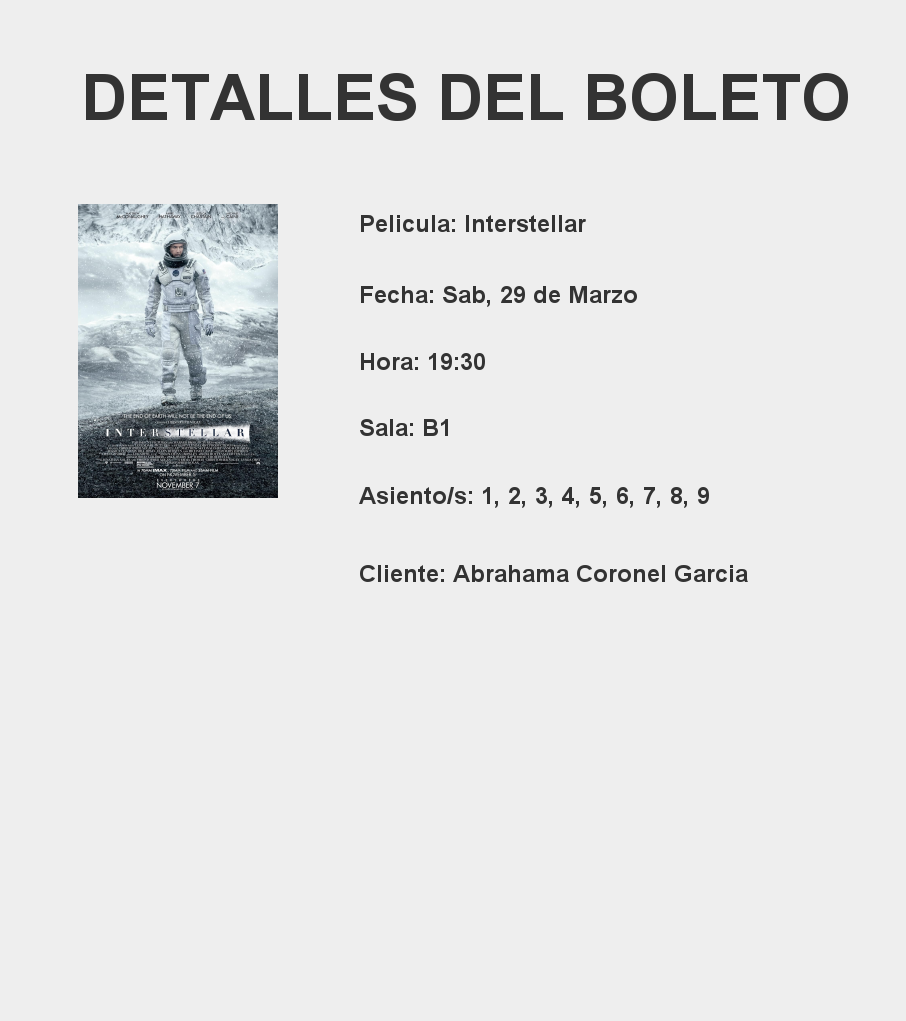
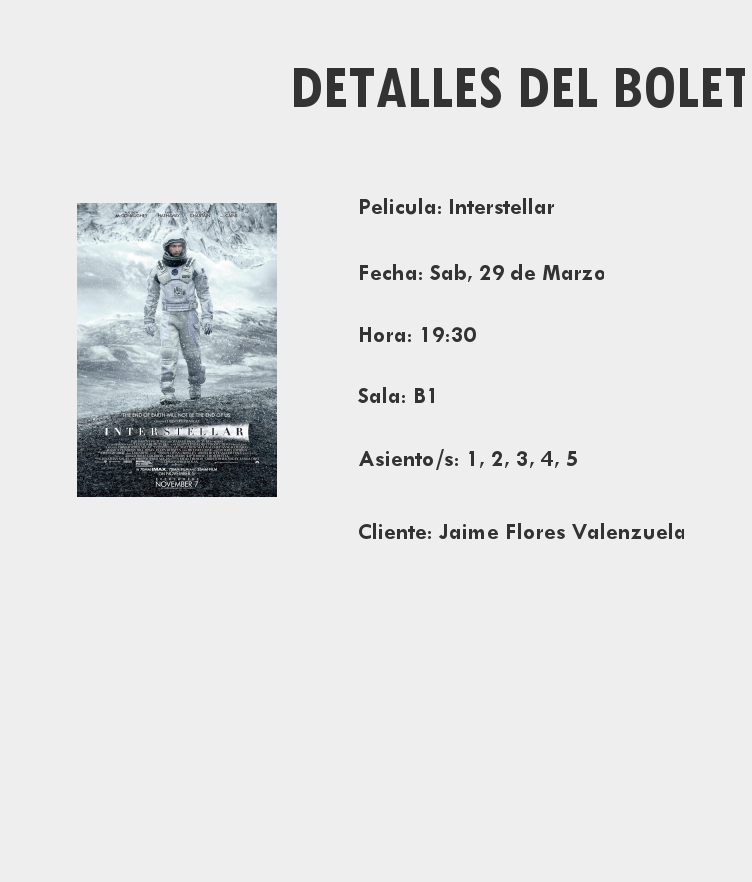
Correcion QR
Se corrigieron los metodos que se encargan de la creacion del qr, sin embargo aun no se puede leer debido a que tiene mucha la imagen tiene demasiados datos

diff --git a/SistemaPresentacionCineLerma/src/main/java/utilitades/Utilerias.java b/SistemaPresentacionCineLerma/src/main/java/utilitades/Utilerias.java
@@ -180,36 +180,21 @@ public class Utilerias {
         }
     }
 
-    public String convertirImagenABase64(String rutaImagen) {
+    public String convertirImagenABase64(String rutaImagen, int nuevoAncho, int nuevoAlto) {
         try {
             BufferedImage imagen = ImageIO.read(new File(rutaImagen));
 
-            // Convertir la imagen a RGB (esto asegura que la imagen sea compatible con JPEG)
-            BufferedImage imagenRGB = new BufferedImage(imagen.getWidth(), imagen.getHeight(), BufferedImage.TYPE_INT_RGB);
-            Graphics2D g2d = imagenRGB.createGraphics();
-            g2d.drawImage(imagen, 0, 0, null);
-            g2d.dispose();
+            // Reducir resolución
+            BufferedImage imagenRedimensionada = escalarImagen(imagen, nuevoAncho, nuevoAlto);
 
-            // Comprimir la imagen a JPEG con calidad reducida
             ByteArrayOutputStream baos = new ByteArrayOutputStream();
-            Iterator<ImageWriter> writers = ImageIO.getImageWritersByFormatName("jpg");
-            ImageWriter writer = writers.next();
-            ImageWriteParam param = writer.getDefaultWriteParam();
-            param.setCompressionMode(ImageWriteParam.MODE_EXPLICIT);
-            param.setCompressionQuality(0.5f); // Comprimir a calidad 50% (ajustar según sea necesario)
-
-            ImageOutputStream ios = ImageIO.createImageOutputStream(baos);
-            writer.setOutput(ios);
-            writer.write(null, new IIOImage(imagenRGB, null, null), param);
-            ios.close();
-
+            ImageIO.write(imagenRedimensionada, "jpg", baos);
             byte[] bytesImagen = baos.toByteArray();
             return Base64.getEncoder().encodeToString(bytesImagen);
         } catch (Exception e) {
             e.printStackTrace();
             return null;
         }
-
     }
 
     // Generar un código QR desde el texto proporcionado
@@ -235,11 +220,21 @@ public class Utilerias {
 
     // Generar un código QR desde una imagen en Base64
     public ImageIcon obtenerQRDesdeImagen(String rutaImagen, int tamañoQR) {
-        String base64Imagen = convertirImagenABase64(rutaImagen);
+        String base64Imagen = convertirImagenABase64(rutaImagen, 10, 10);
         if (base64Imagen == null) {
             System.out.println("Error al convertir la imagen a Base64.");
             return null;
         }
         return generarCodigoQR(base64Imagen, tamañoQR);
     }
+
+    private BufferedImage escalarImagen(BufferedImage original, int ancho, int alto) {
+        Image imagenEscalada = original.getScaledInstance(ancho, alto, Image.SCALE_SMOOTH);
+        BufferedImage bufferedEscalada = new BufferedImage(ancho, alto, BufferedImage.TYPE_INT_RGB);
+        Graphics2D g2d = bufferedEscalada.createGraphics();
+        g2d.drawImage(imagenEscalada, 0, 0, null);
+        g2d.dispose();
+        return bufferedEscalada;
+    }
+
 }

diff --git a/SistemaPresentacionCineLerma/src/main/java/capaPresentacion/DetalleDelBoleto.java b/SistemaPresentacionCineLerma/src/main/java/capaPresentacion/DetalleDelBoleto.java
@@ -32,9 +32,9 @@ public class DetalleDelBoleto extends javax.swing.JFrame {
         setVisible(true);
         Thread.sleep(500); 
         
-        //String rutaImagen = utilerias.sacarCapturaJFrame(this, "C:\\Users\\PC\\Documents\\GitHub\\Sistema-de-Gestion-del-Cine-Lerma\\SistemaPresentacionCineLerma\\src\\main\\resources\\img\\captura.png");
-        //ImageIcon qrIcon = utilerias.obtenerQRDesdeImagen(rutaImagen, 300);
-        //etiquetaImagenQR.setIcon(qrIcon);
+        String rutaImagen = utilerias.sacarCapturaJFrame(this, "C:\\Users\\Usuario\\OneDrive\\Documentos\\GitHub\\Sistema-de-Gestion-del-Cine-Lerma\\SistemaPresentacionCineLerma\\src\\main\\resources\\img\\captura.png");
+        ImageIcon qrIcon = utilerias.obtenerQRDesdeImagen(rutaImagen, 200);
+        etiquetaImagenQR.setIcon(qrIcon);
         
         btnRegresoMenu.setVisible(true);
         

diff --git a/SistemaPresentacionCineLerma/src/main/java/capaPresentacion/ControlDeNavegacion.java b/SistemaPresentacionCineLerma/src/main/java/capaPresentacion/ControlDeNavegacion.java
@@ -44,7 +44,7 @@ public class ControlDeNavegacion {
 
     private int numAsientos = 0;
 
-    private ClienteDTO cliente = new ClienteDTO("Abrahama Coronel Garcia", "jaime@lerma.com.mx");
+    private ClienteDTO cliente = new ClienteDTO("Jaime Flores Valenzuela", "jaime@lerma.com.mx");
 
     private static ControlDeNavegacion instancia;
 
